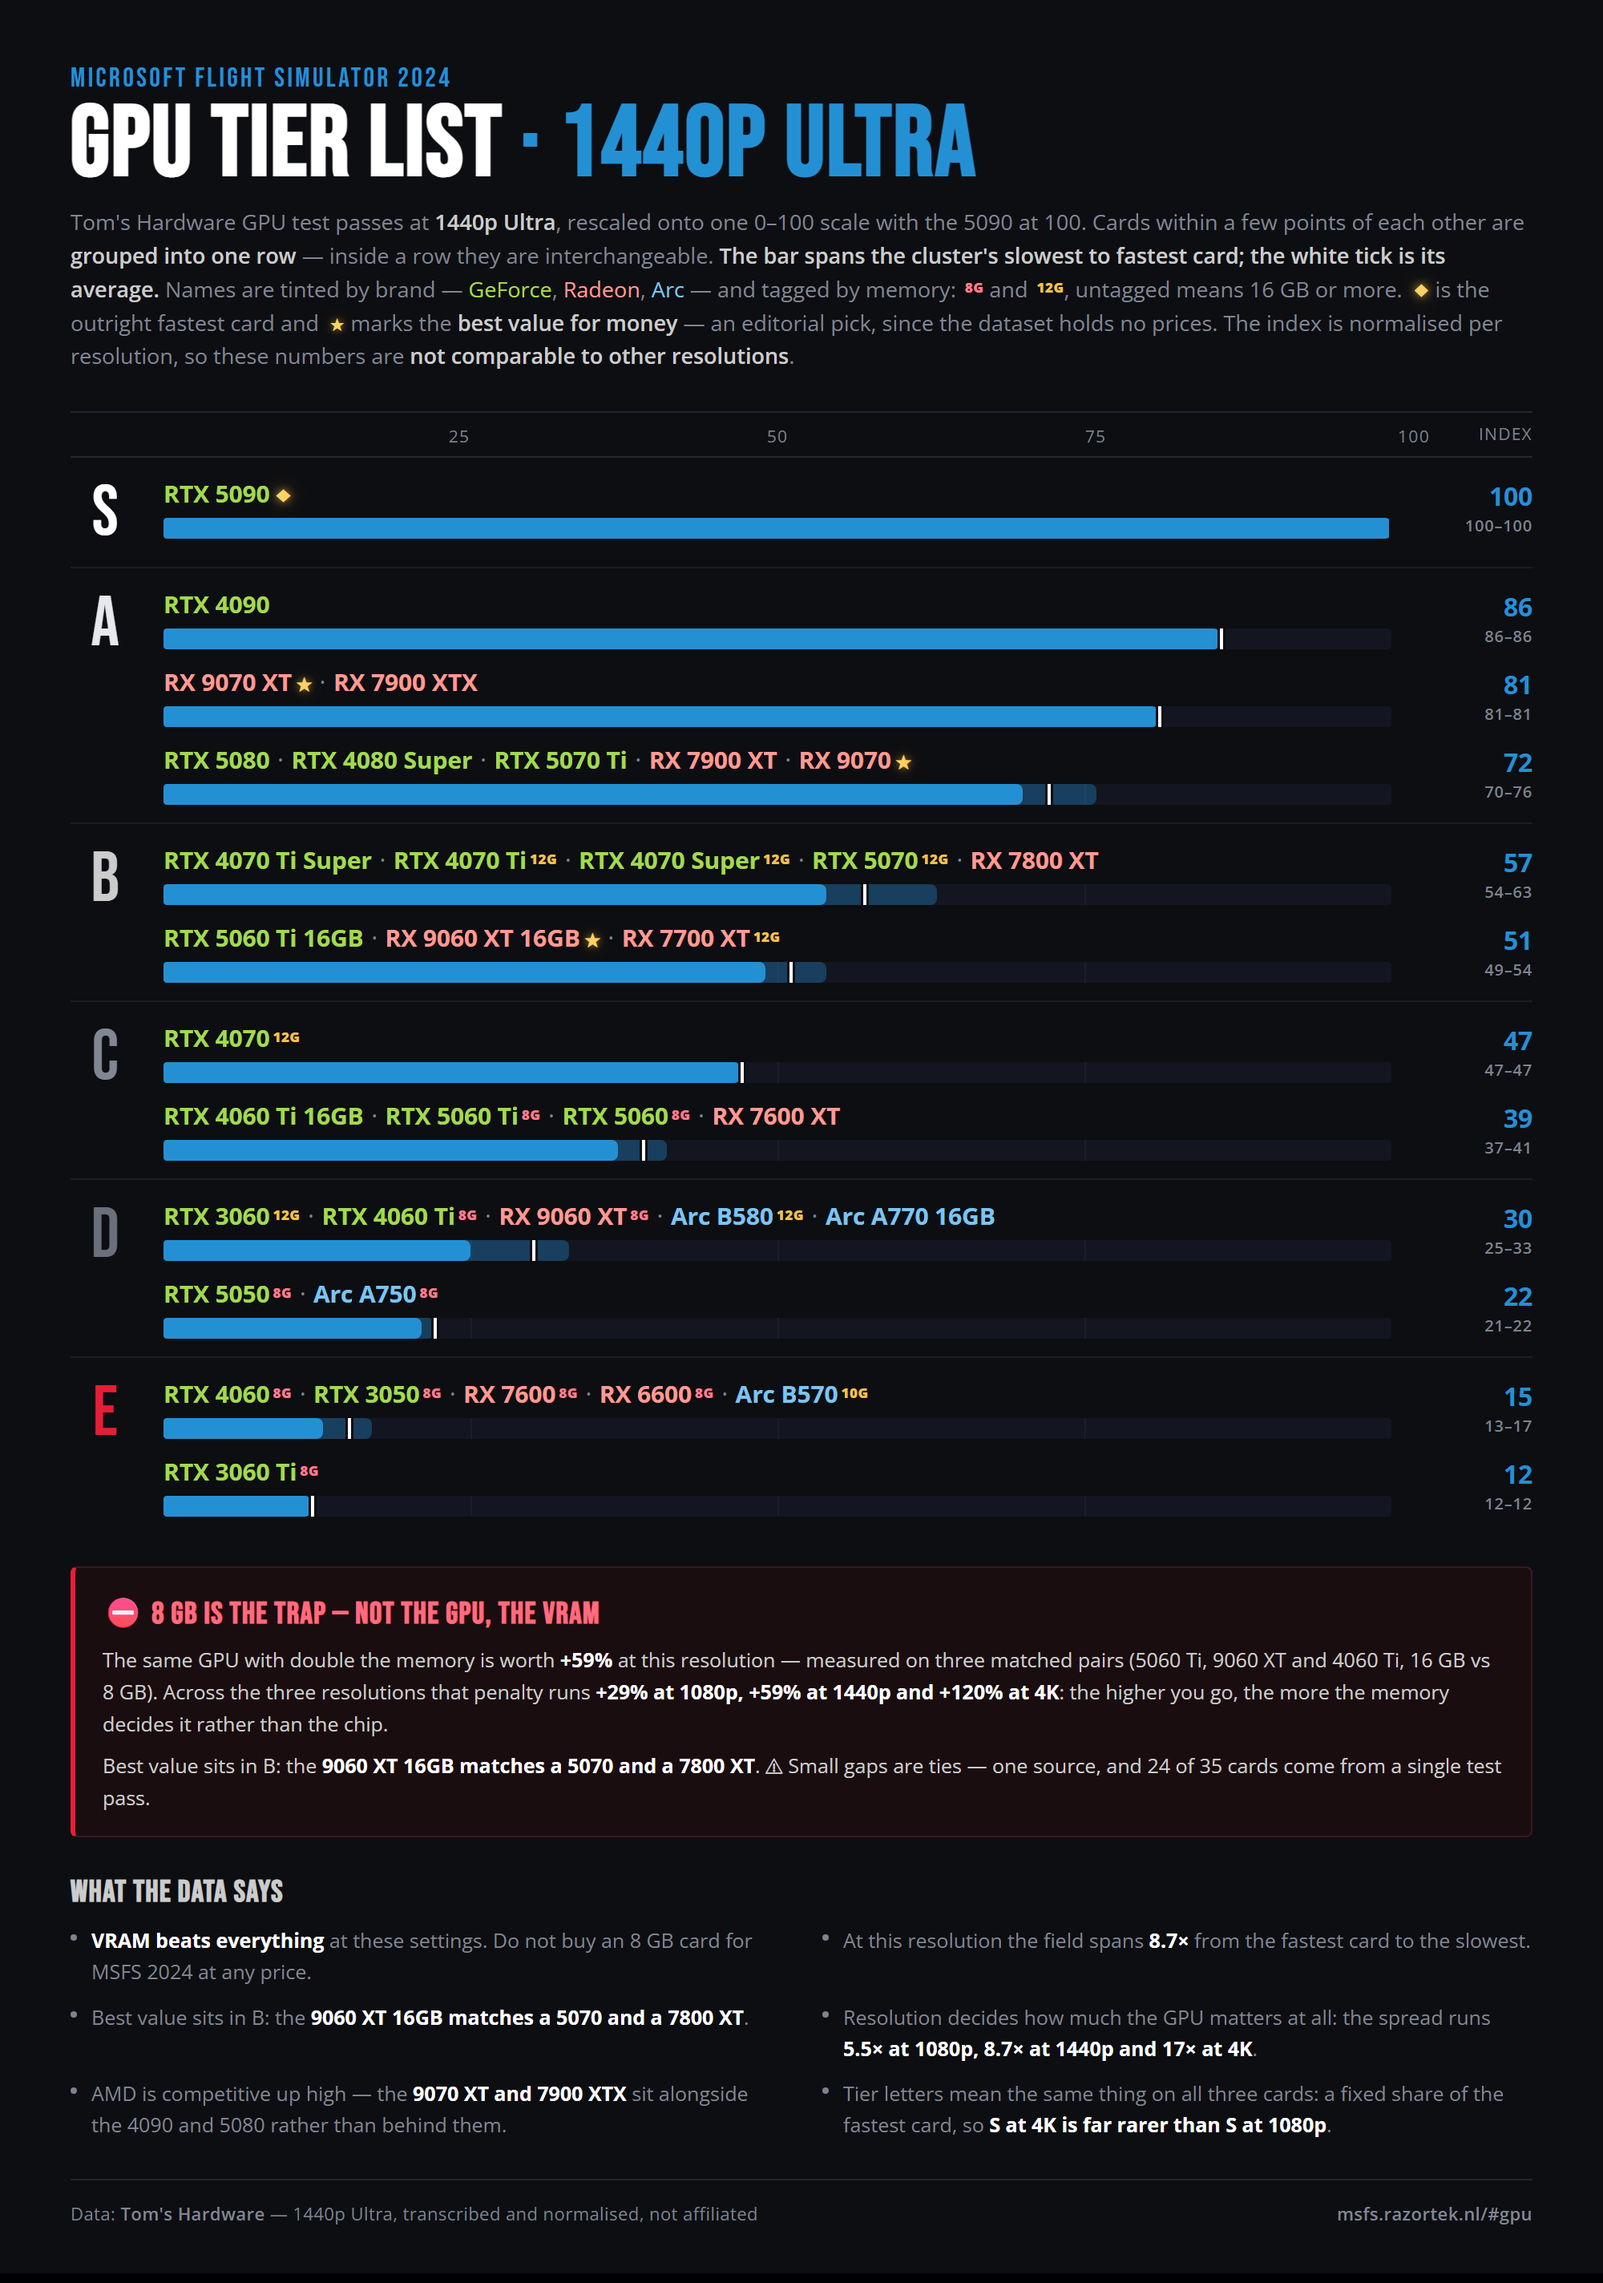
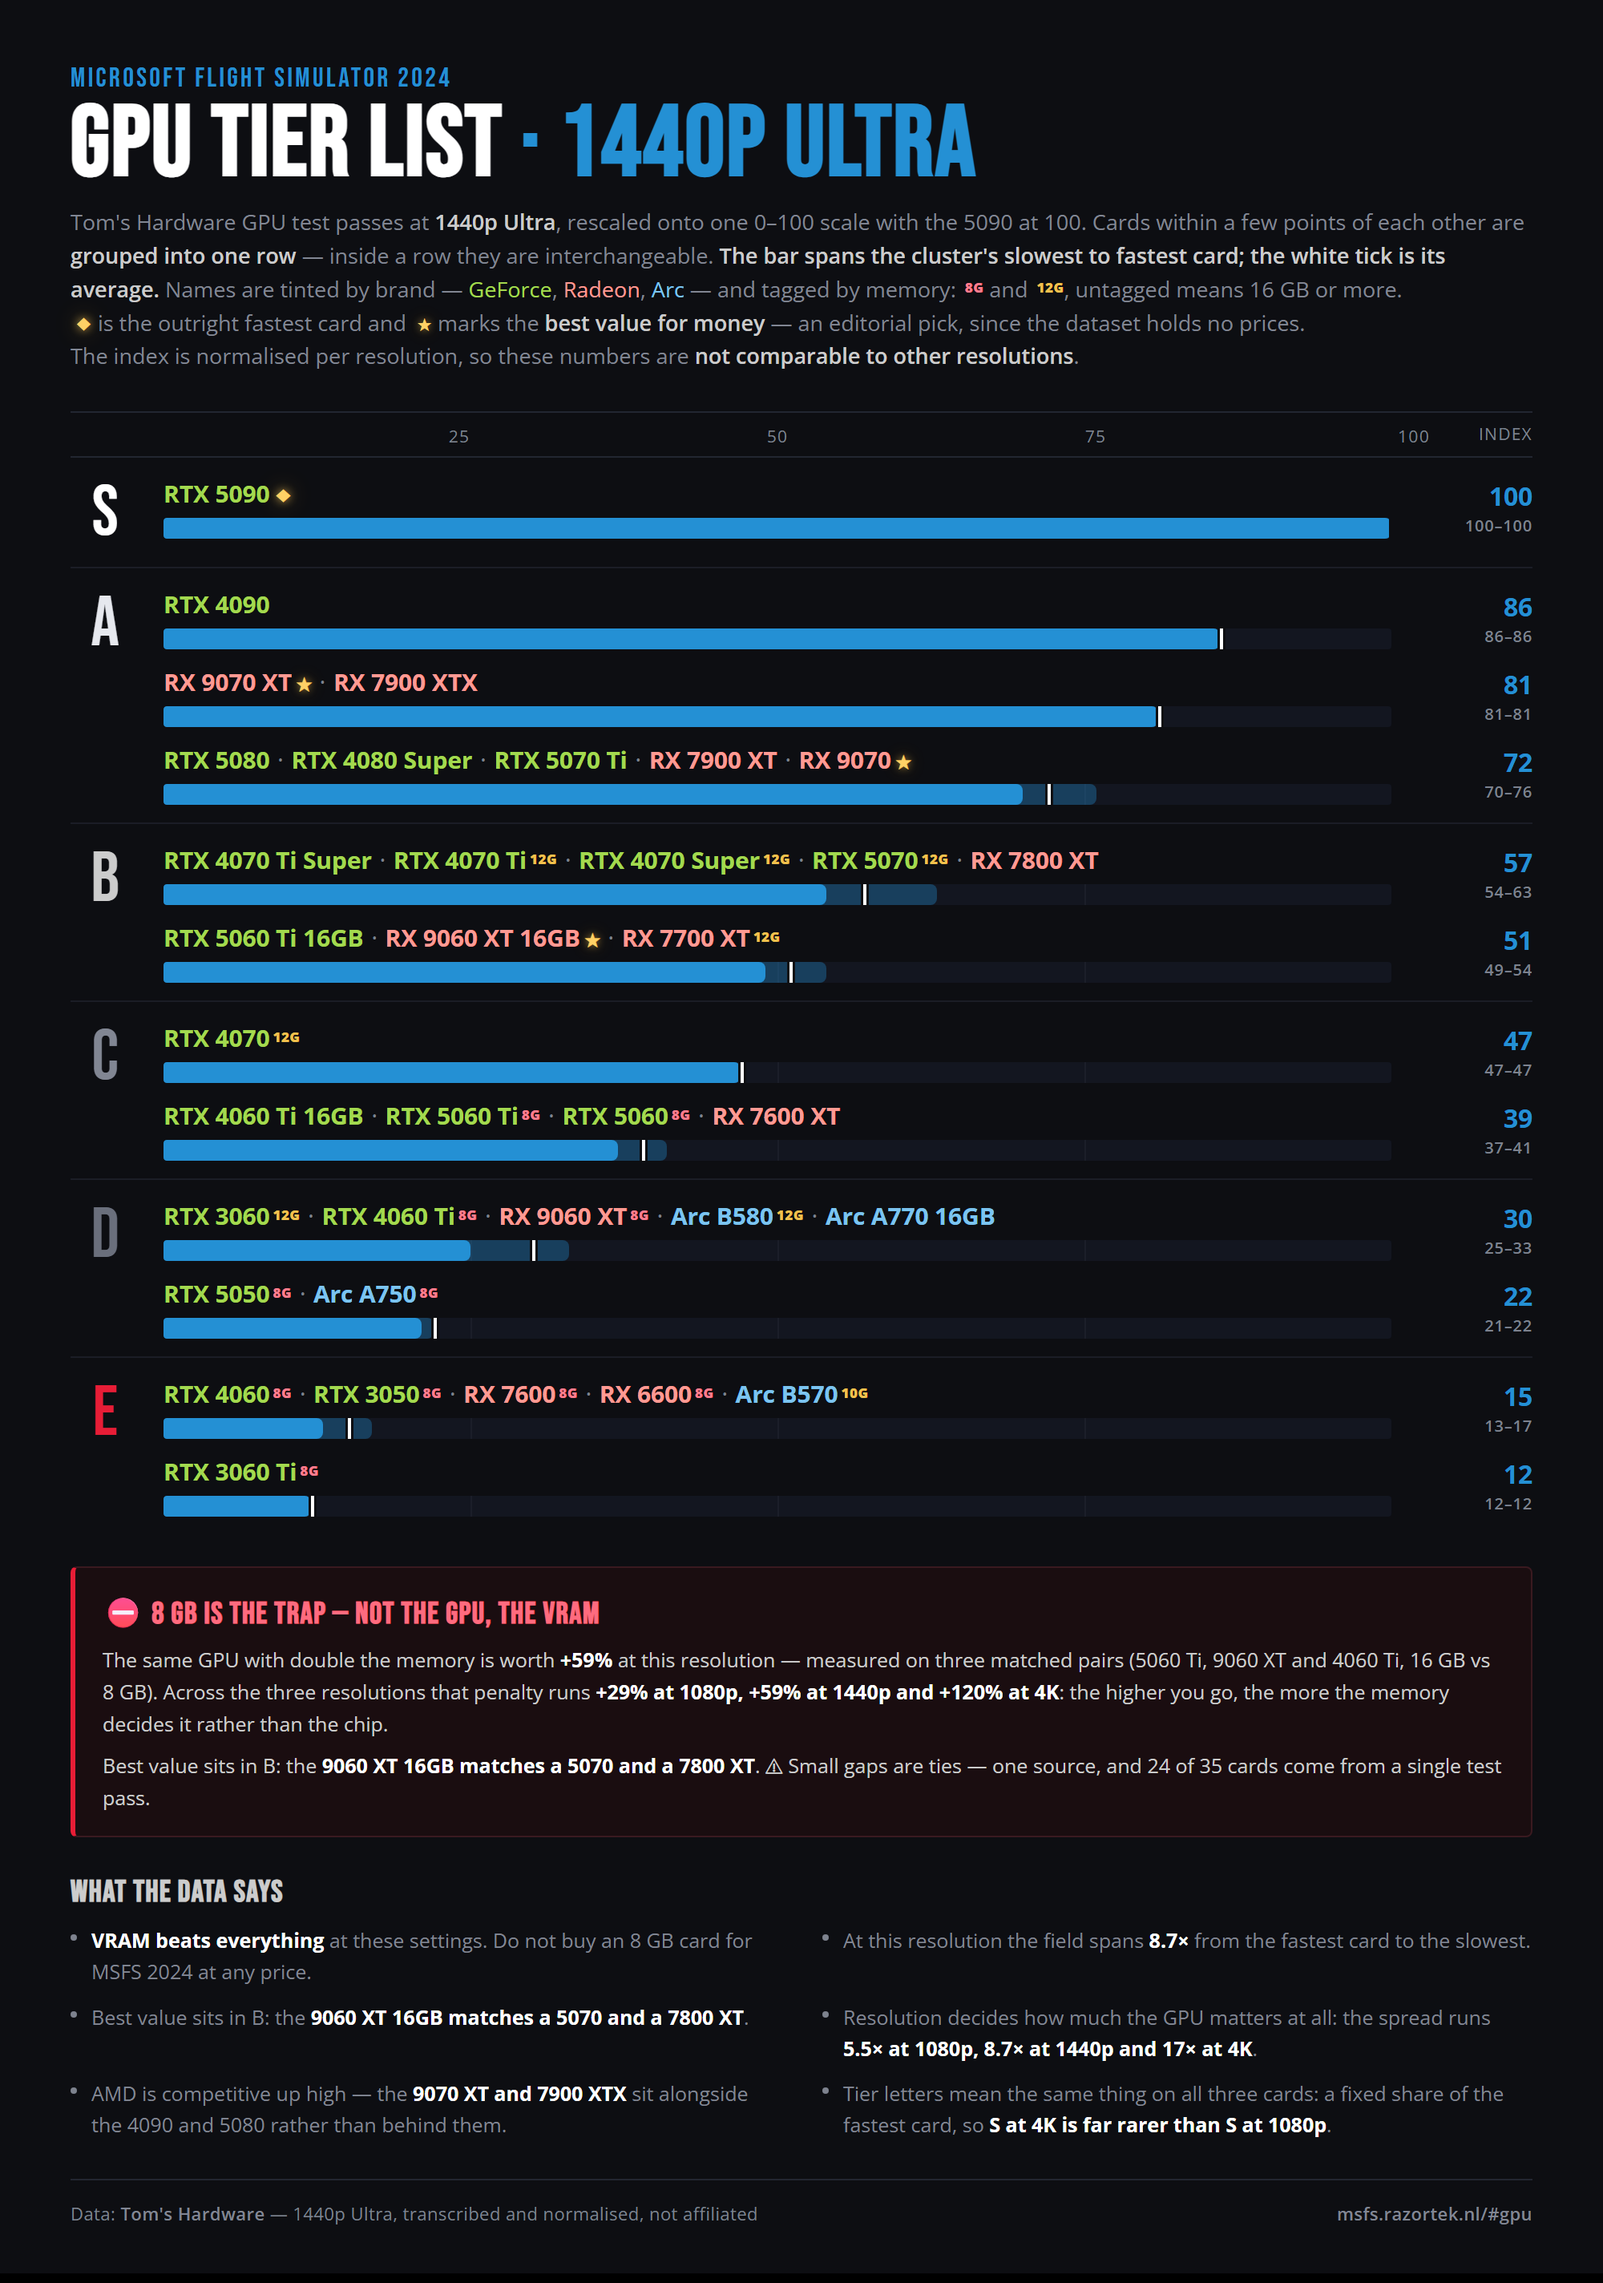
Break the GPU card lede at sentence boundaries
Splits the lede into three blocks: what the index is and how rows work,
what the marks and memory tags mean, then the per-resolution caveat.
Easier to scan than one five-line paragraph.

Card height is unchanged at 1424px -- the breaks fall close to where the
text already wrapped -- so only the three detail PNGs change. The compact
variants hide the lede entirely and are untouched.

Changed region(s): [[0.031, 0.125, 0.682, 0.1562], [0.713, 0.125, 0.806, 0.1562], [0.868, 0.125, 0.93, 0.1562]]

diff --git a/tierlist_card_gpu.html b/tierlist_card_gpu.html
@@ -180,9 +180,11 @@ html.compact .foot{margin-top:9px;padding-top:7px;font-size:10.5px}
     Names are tinted by brand — <span class="b-nv">GeForce</span>,
     <span class="b-amd">Radeon</span>, <span class="b-intel">Arc</span> — and tagged by
     memory: <sup class="vr v8">8G</sup> and <sup class="vr v12">12G</sup>, untagged means
-    16 GB or more. <span class="mk ult">◆</span> is the outright fastest card and
+    16 GB or more.<br/>
+    <span class="mk ult">◆</span> is the outright fastest card and
     <span class="mk">★</span> marks the <b>best value for money</b> — an editorial pick,
-    since the dataset holds no prices. The index is normalised per resolution, so these
+    since the dataset holds no prices.<br/>
+    The index is normalised per resolution, so these
     numbers are <b>not comparable to other resolutions</b>.
   </div>
   <div class="hrule"></div>
